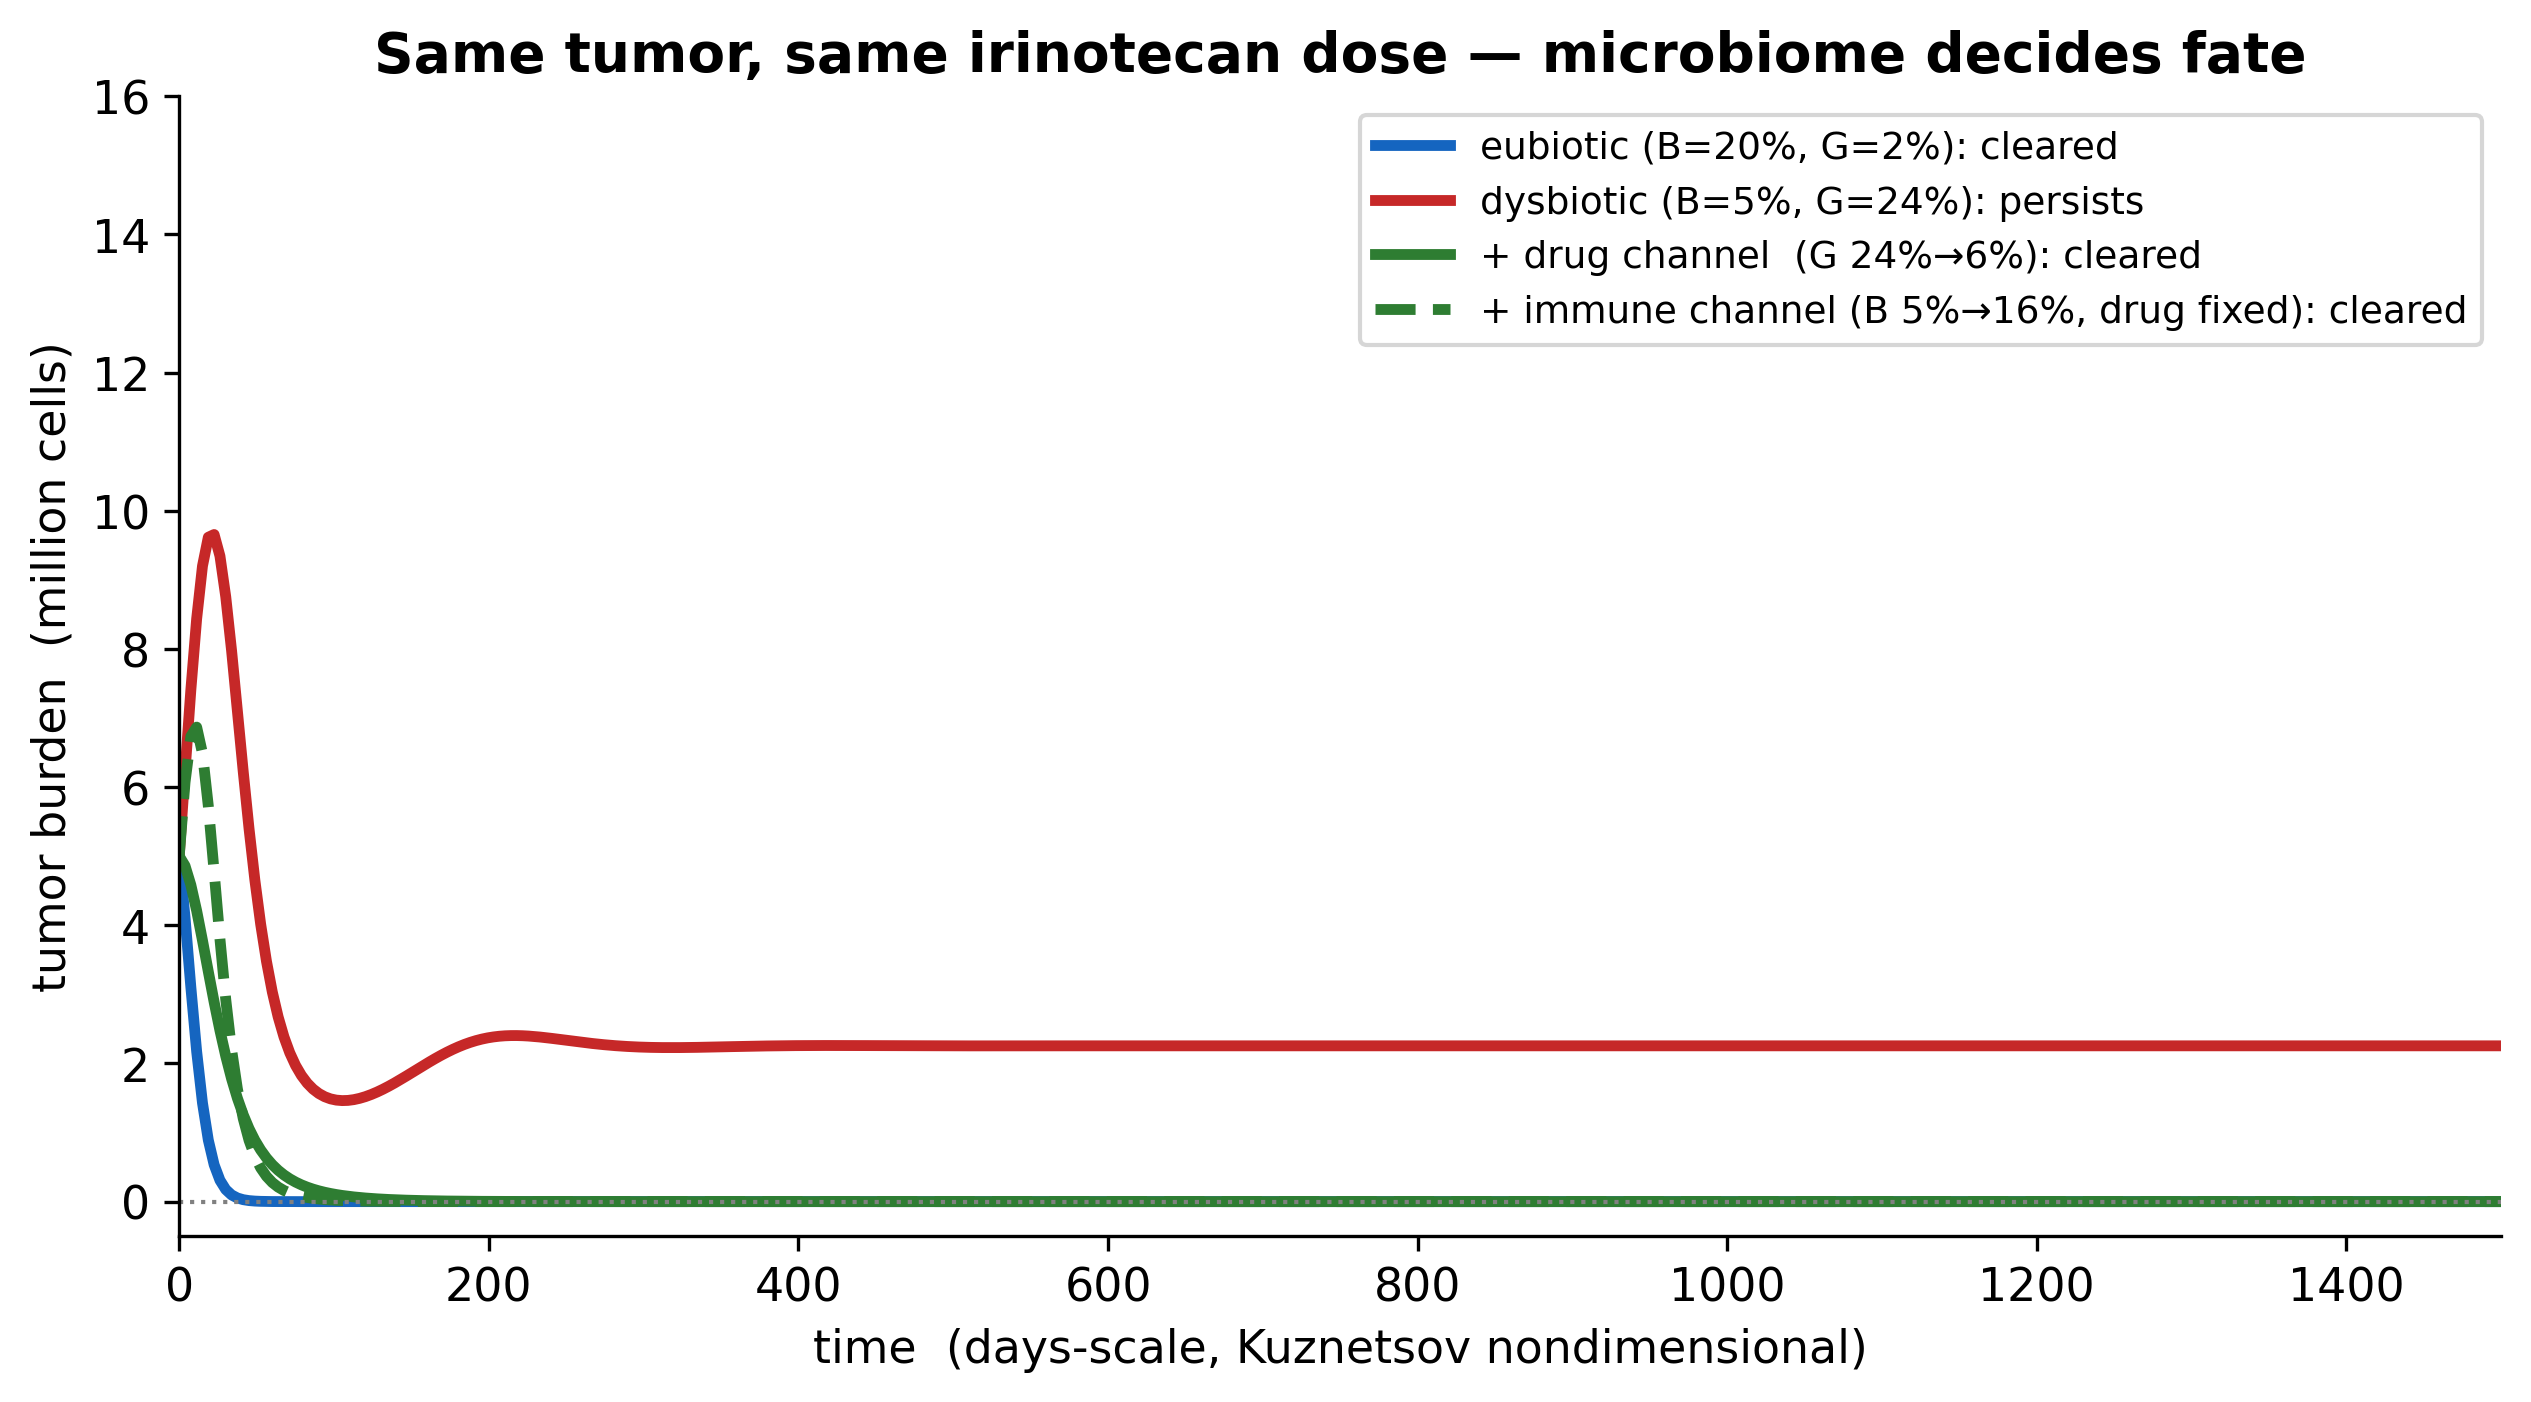
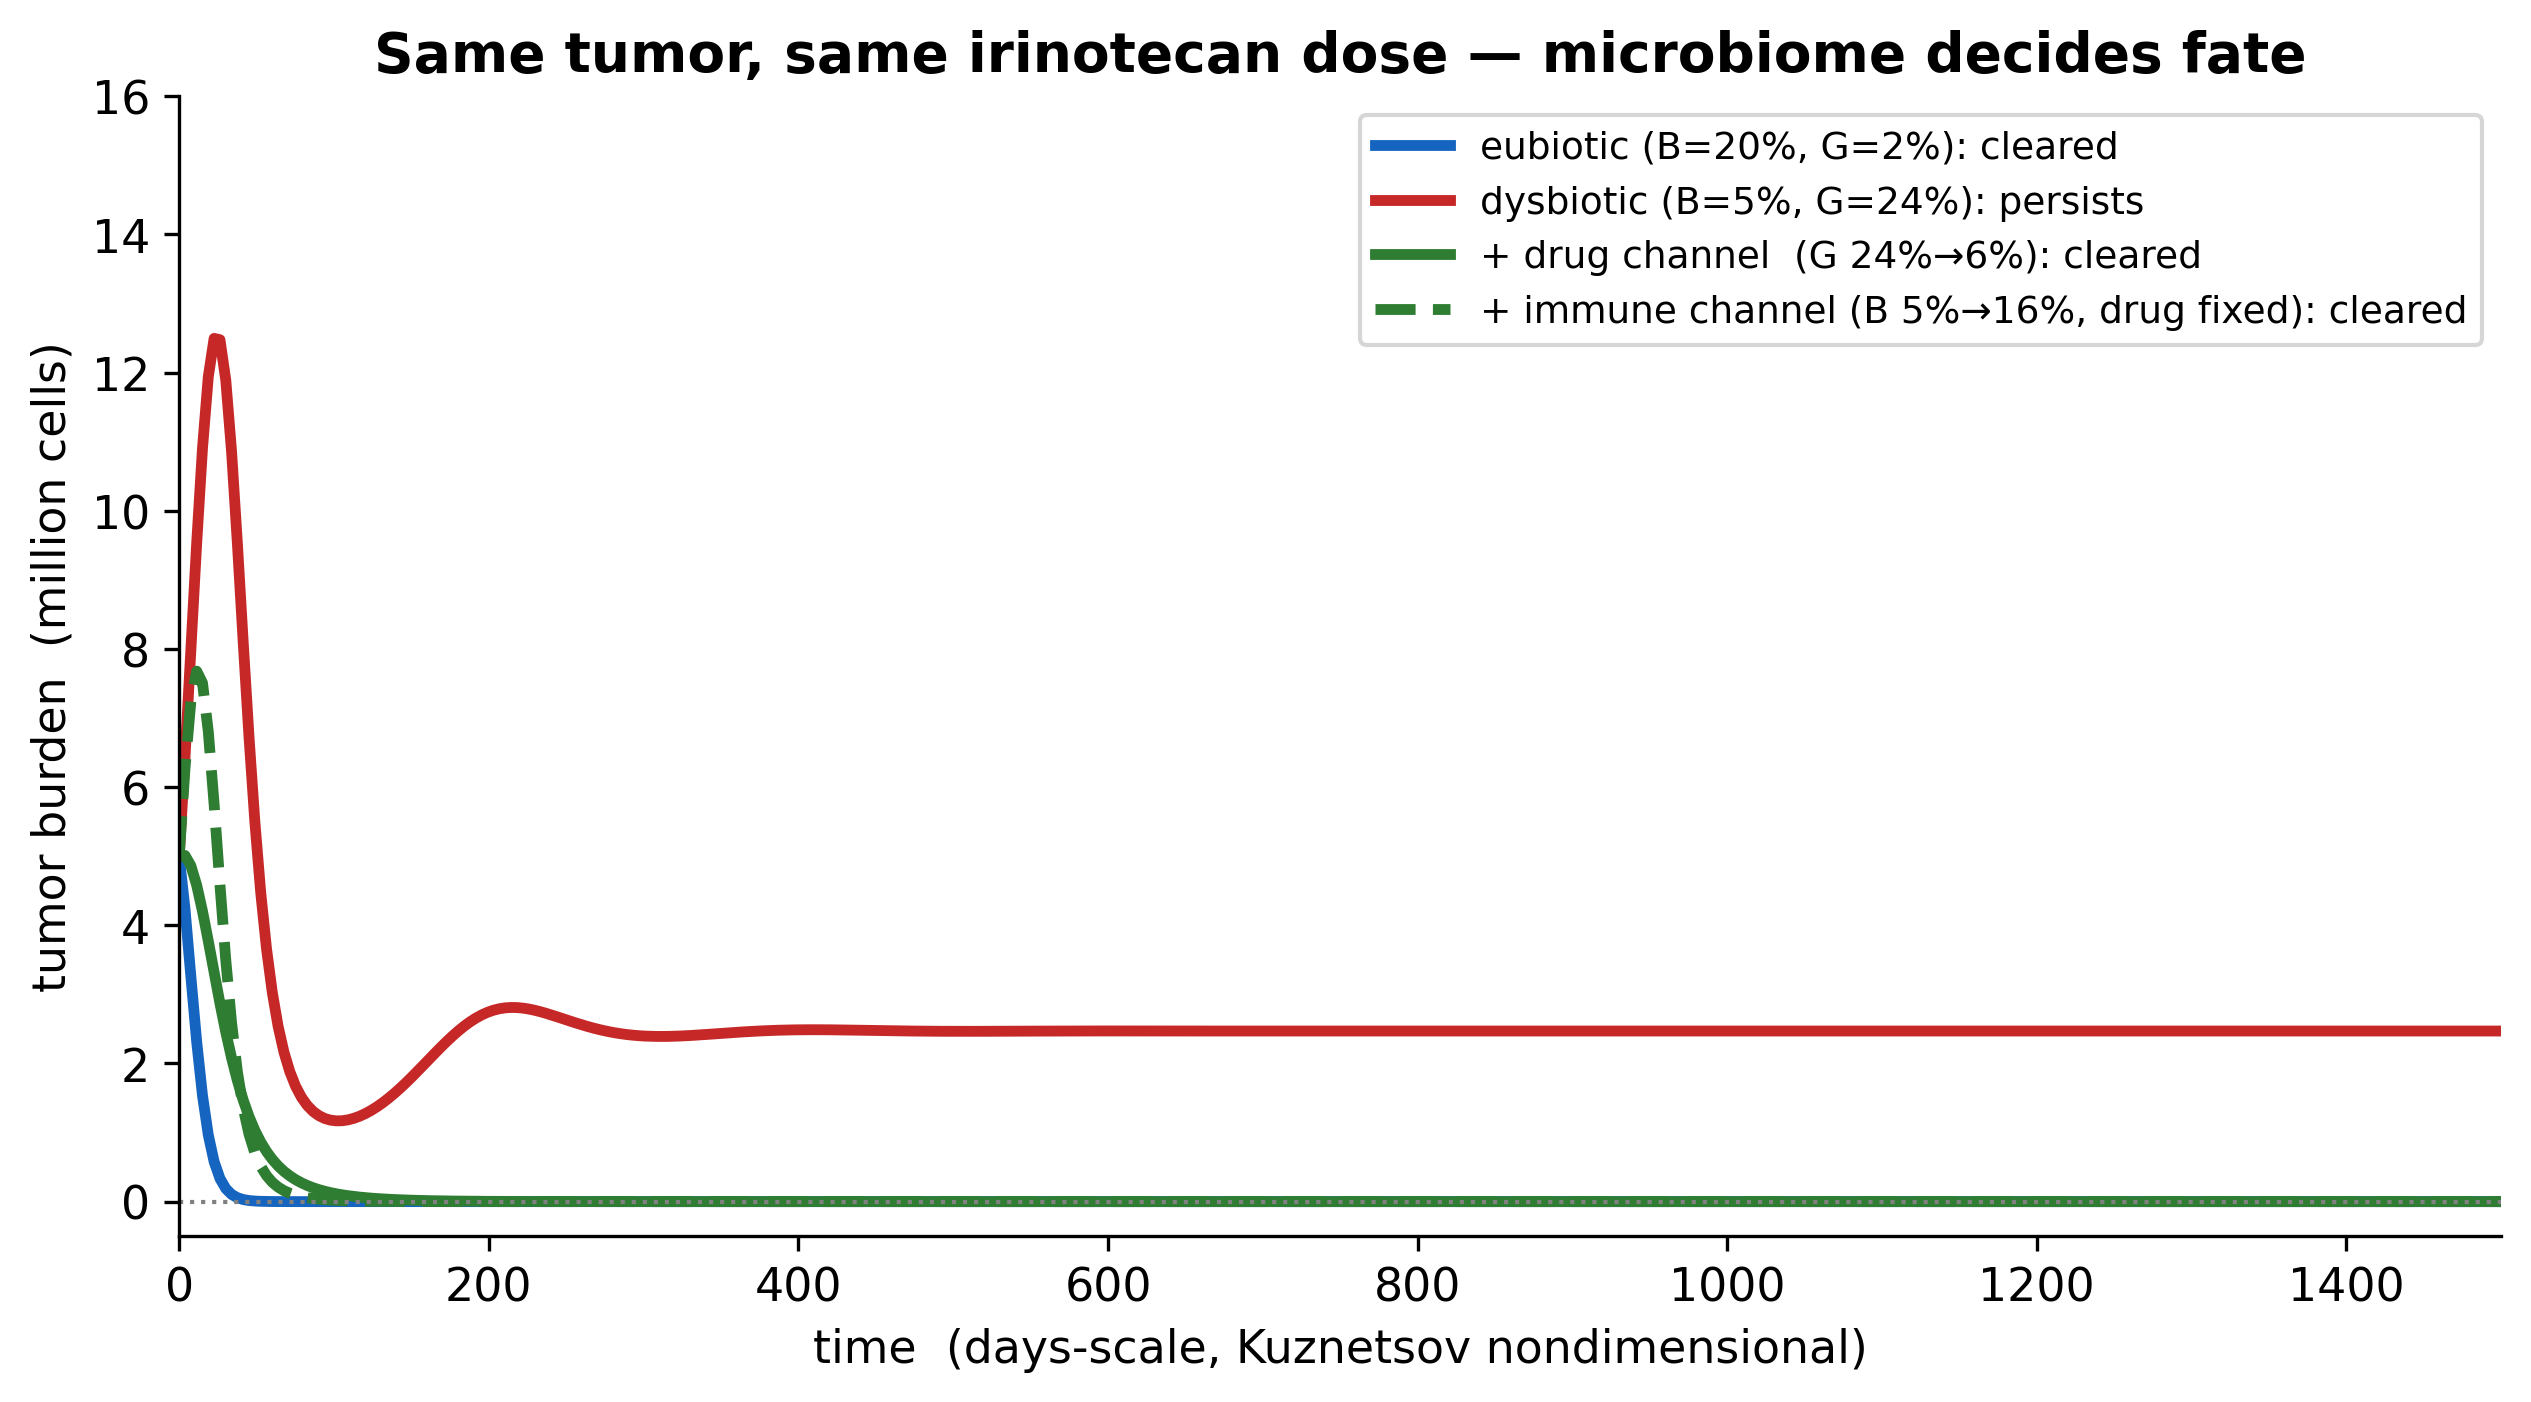
Fix tumor logistic term to match Kuznetsov 1994 Eq. 1
The competition term was written as -b*C_T^2 but the paper's form is
a*C_T*(1 - b*C_T), which expands to a*C_T - a*b*C_T^2. With b=2e-9 as
the reciprocal carrying capacity (not a*b), the old form overstated
self-competition by a factor of 1/a ≈ 5.6 and set the carrying capacity
to a/b = 9e7 cells instead of the correct 1/b = 5e8 cells. Stability
margin and bifurcation boundary are unchanged (b term drops at C_T=0).
Trajectories and figures regenerated.

Changed region(s): [[0.1561, 0.7054, 0.9988, 0.7668], [0.0624, 0.2454, 0.1561, 0.8588]]

diff --git a/model.py b/model.py
@@ -59,7 +59,7 @@ def margin(B, G):
 
 def final_tumor(B, G, T_end=1500):
     rhs = lambda t, y: [
-        a*y[0] - b*y[0]**2 - n*y[0]*y[1] - kill(G)*y[0],
+        a*y[0]*(1 - b*y[0]) - n*y[0]*y[1] - kill(G)*y[0],
         s_of(B) - d*y[1] + r*y[0]*y[1]/(h+y[0]) - m*y[0]*y[1],
     ]
     sol = solve_ivp(rhs, (0, T_end), [C_T0, C_I0], method='LSODA',

diff --git a/README.md b/README.md
@@ -35,7 +35,7 @@ Bifidobacterium raise anti-tumor effector-immune infiltration and checkpoint-the
 Kuznetsov (1994) fast tumor-immune dynamics (report Eq. 1), tumor cells `C_T`, effector immune `C_I`:
 
 ```
-dC_T/dt = a*C_T - b*C_T^2 - n*C_T*C_I - kill(G)*C_T
+dC_T/dt = a*C_T*(1 - b*C_T) - n*C_T*C_I - kill(G)*C_T
 dC_I/dt = s(M) - d*C_I + r*C_T*C_I/(h + C_T) - m*C_T*C_I
 ```
 